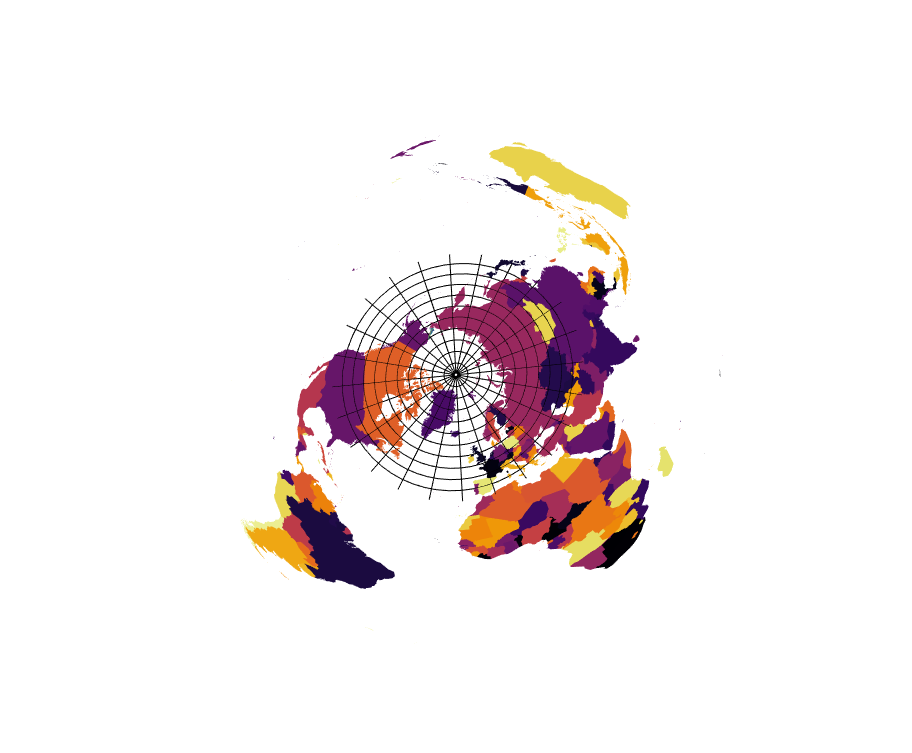
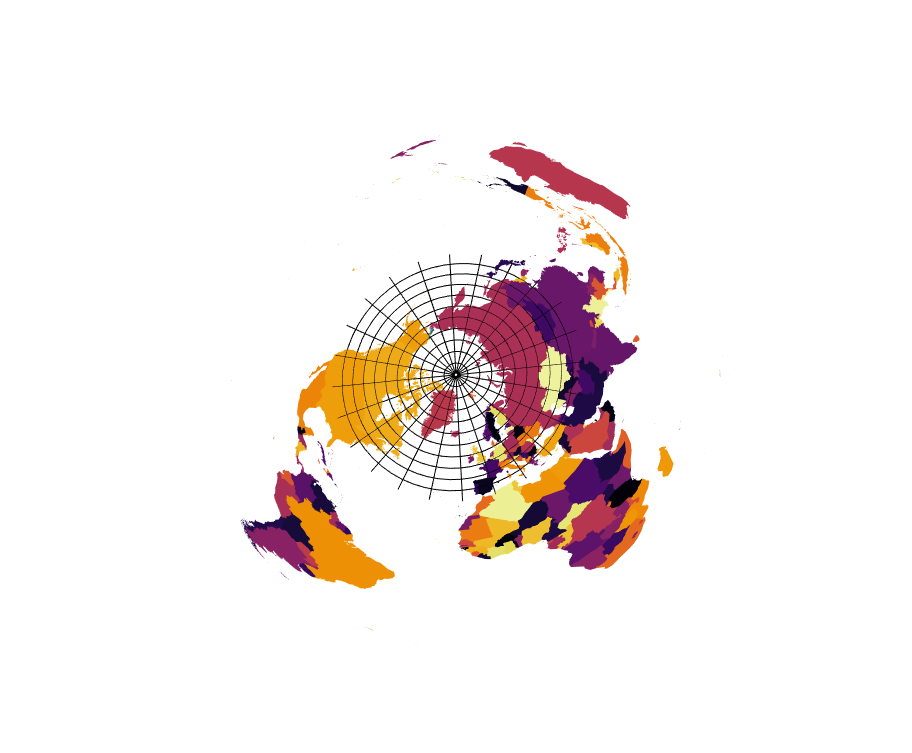
rangl, now with raster

Changed region(s): [[0.2456, 0.1833, 0.7368, 0.7942]]

diff --git a/README.md b/README.md
@@ -236,6 +236,24 @@ rgl::rgl.snapshot("readme-figure/README-walrus.png"); rgl.clear()
 
 ![Walrus](readme-figure/README-walrus.png?raw=true "Walrus")
 
+Rasters
+-------
+
+Single layer rasters are supported.
+
+``` r
+wrld <- rasterize(wrld_simpl, raster())
+plot(rangl(wrld/10))
+rgl::rgl.snapshot("readme-figure/README-raster.png"); rgl.clear()
+
+plot(globe(rangl(wrld*100000)), specular = "black")
+rgl::rgl.snapshot("readme-figure/README-rasterglobe.png"); rgl.clear()
+```
+
+![Raster](readme-figure/README-raster.png?raw=true "Raster")
+
+![RasterGlobe](readme-figure/README-rasterglobe.png?raw=true "RasterGlobe")
+
 Open topics
 -----------
 

diff --git a/NEWS.md b/NEWS.md
@@ -1,3 +1,15 @@
+# rangl dev
+
+* raster package is now an Import
+
+* added support for RasterLayer
+
+* fixed globe to keep PROJ.4
+
+* quashed a major bug introduced by use of dplyr::distinct, best to use factor unique classifier on character versions of coords
+
+* several cleanup fixes
+
 # rangl 0.3.0
 
 * rename again, main function is called 'rangl', the term 'mesh' is too often used across R 
